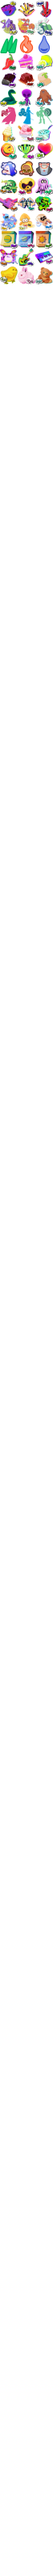
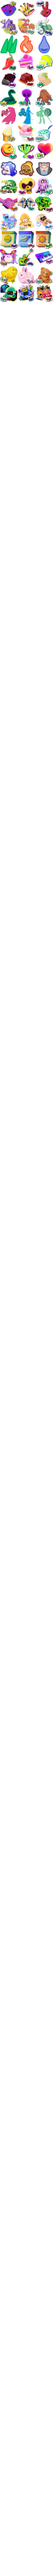
flairs

Changed region(s): [[0.0, 0.0931, 0.3333, 0.1241], [0.697, 0.0931, 0.9697, 0.1241], [0.3636, 0.0931, 0.6364, 0.1241]]

diff --git a/stylesheets/stylesheet.css b/stylesheets/stylesheet.css
@@ -4929,6 +4929,9 @@ body {
 .flair-c-746:before{background-position:0px -330px}
 .flair-c-747:before{background-position:-22px -330px}
 .flair-c-748:before{background-position:-44px -330px}
+.flair-c-749:before{background-position:0px -352px}
+.flair-c-750:before{background-position:-22px -352px}
+.flair-c-751:before{background-position:-44px -352px}
 
 /* Countdown CSS */
 a[href="#days"], a[href="#hours"], a[href="#minutes"], a[href="#seconds"] {
